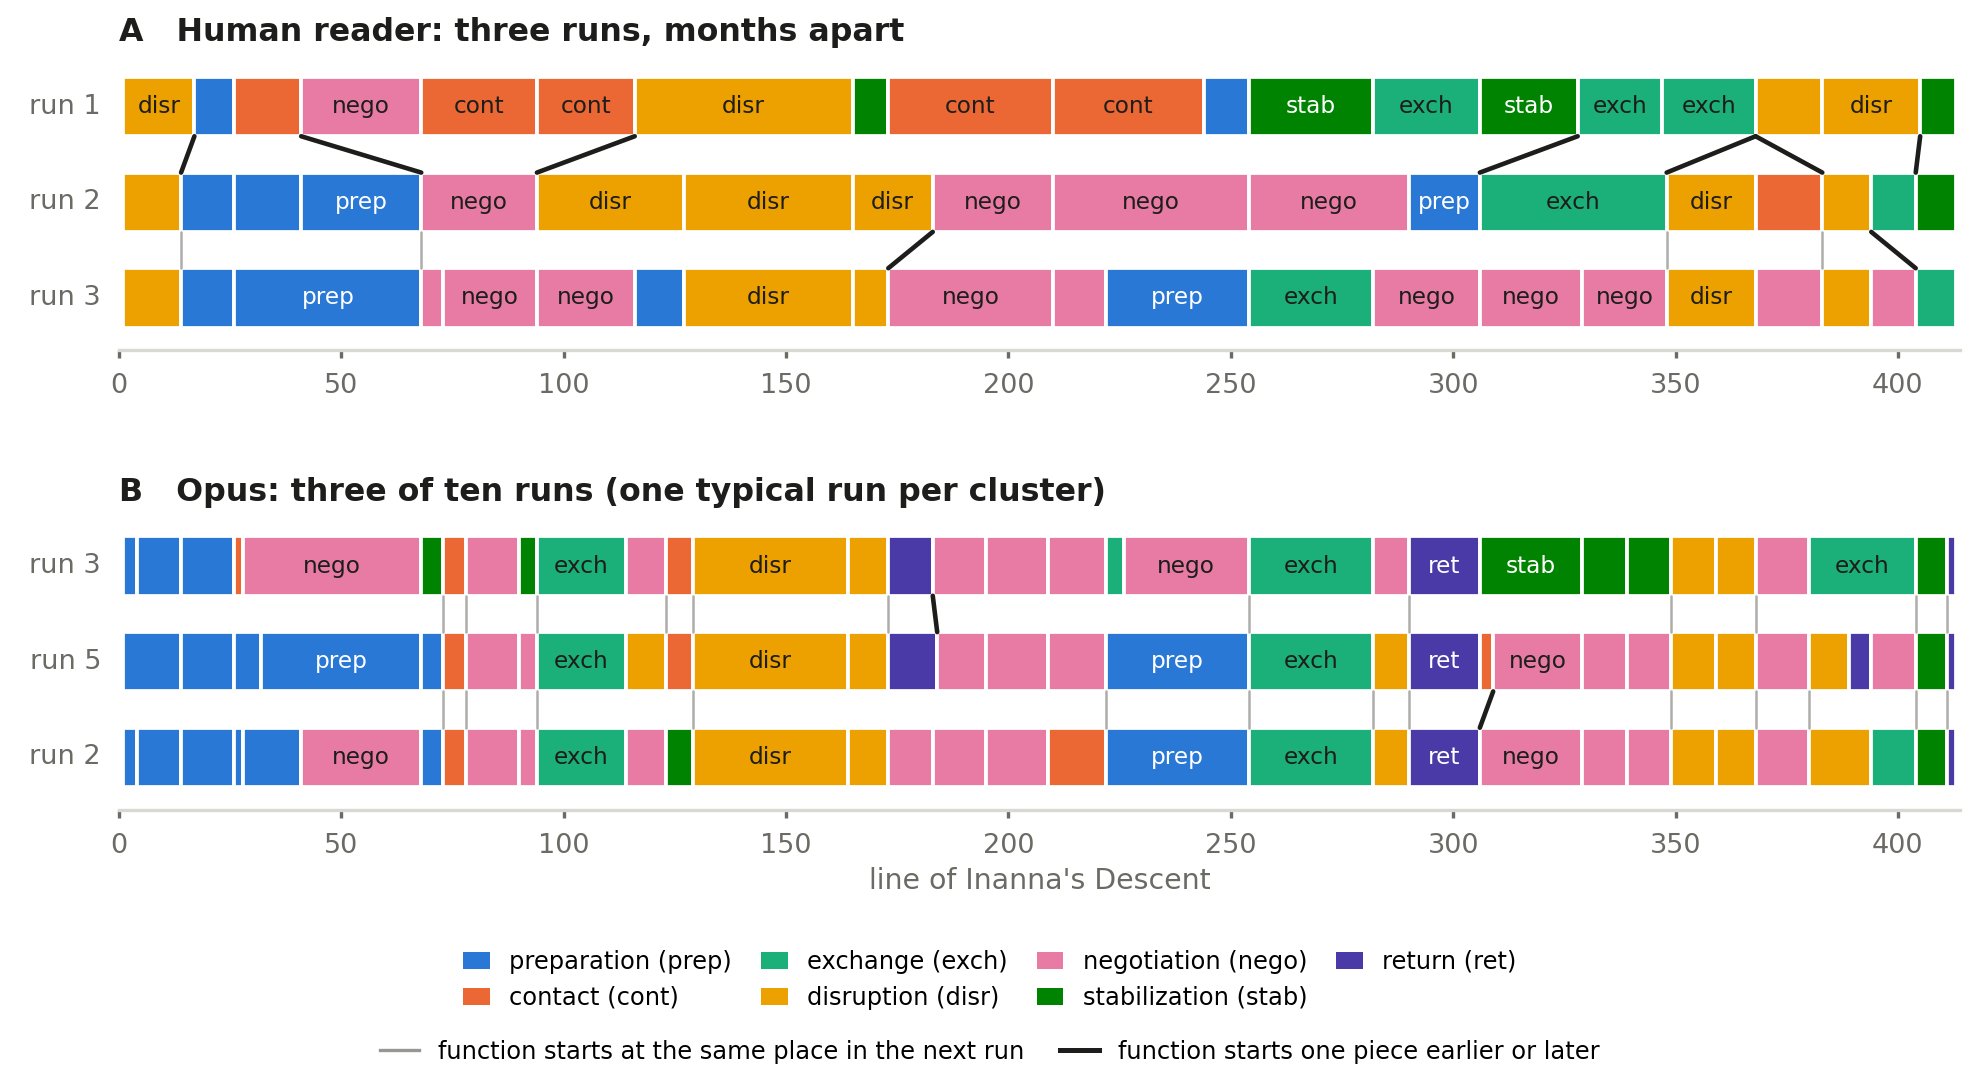
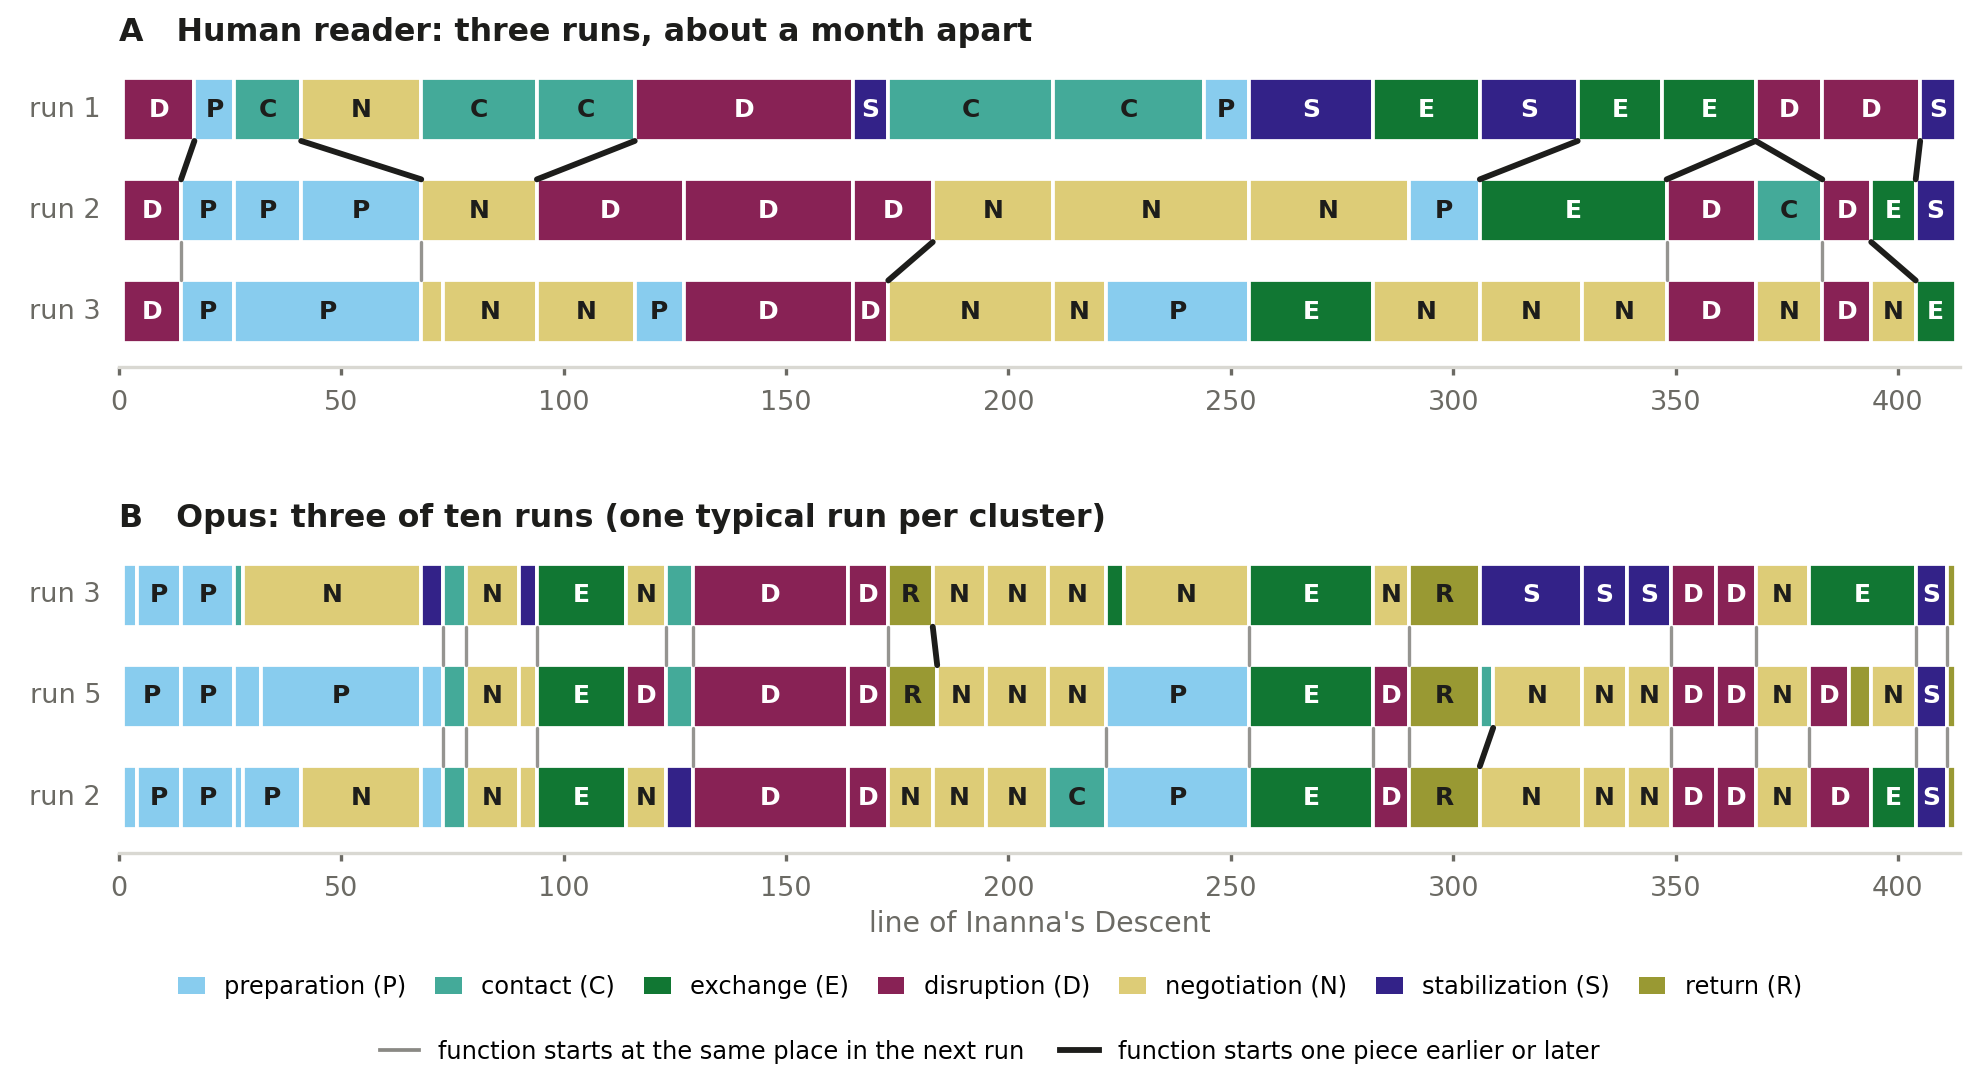
Code and data for the paper

diff --git a/src/fig1_phase.py b/src/fig1_phase.py
@@ -22,8 +22,8 @@ def figure_data(source, choose):
 # panel A: the human's 3 runs; panel B: Opus, one typical run per cluster (select_medoid)
 D = {"human1": figure_data("human1", lambda L: L), "opus": figure_data("opus", lambda L: select_medoid(L, 3))}
 FUN=["preparation","contact","exchange","disruption","negotiation","stabilization","return"]
-COL=dict(zip(FUN,["#2a78d6","#eb6834","#1baf7a","#eda100","#e87ba4","#008300","#4a3aa7"]))
-TXT={f:("#ffffff" if f in("preparation","stabilization","return") else "#1d1d1b") for f in FUN}
+COL=dict(zip(FUN,["#88CCEE","#44AA99","#117733","#882255","#DDCC77","#332288","#999933"]))
+TXT={f:("#ffffff" if f in("exchange","disruption","stabilization") else "#1d1d1b") for f in FUN}   # letter colour on each block
 AB=dict(preparation="prep",contact="cont",exchange="exch",disruption="disr",negotiation="nego",stabilization="stab",**{"return":"ret"})
 INK="#1d1d1b"; MUTED="#6b6a64"; GRID="#d9d8d2"
 plt.rcParams.update({"font.family":"DejaVu Sans","font.size":7.5})
@@ -58,19 +58,19 @@ def links(d,a,b):
 
 fig,axes=plt.subplots(2,1,figsize=(6.6,3.6),dpi=300)
 H=0.62; Y=[2,1,0]
-for ax,(key,title) in zip(axes,[("human1","A   Human reader: three runs, months apart"),
+for ax,(key,title) in zip(axes,[("human1","A   Human reader: three runs, about a month apart"),
                                  ("opus","B   Opus: three of ten runs (one typical run per cluster)")]):
     d=D[key]
     for k in range(3):
         for (a,e,f) in segs(d,k):
             ax.add_patch(Rectangle((a,Y[k]-H/2),e-a,H,facecolor=COL[f],edgecolor="white",linewidth=0.9))
-            if e-a>=16: ax.text((a+e)/2,Y[k],AB[f],ha="center",va="center",fontsize=5.6,color=TXT[f])
+            if e-a>=7: ax.text((a+e)/2,Y[k],f[0].upper(),ha="center",va="center",fontsize=6,fontweight="bold",color=TXT[f])
         ax.text(-4,Y[k],f"run {d['runs'][k]}",ha="right",va="center",fontsize=6.5,color=MUTED)
     for (ka,kb) in [(0,1),(1,2)]:
         for xa,xb,dd in links(d,ka,kb):
             ya,yb=Y[ka]-H/2,Y[kb]+H/2
-            if dd==0: ax.plot([xa,xb],[ya,yb],color=MUTED,lw=0.6,alpha=0.55,solid_capstyle="round")
-            else:     ax.plot([xa,xb],[ya,yb],color=INK,lw=1.1,solid_capstyle="round")
+            if dd==0: ax.plot([xa,xb],[ya,yb],color="#8a8984",lw=0.8,alpha=0.9,solid_capstyle="round")
+            else:     ax.plot([xa,xb],[ya,yb],color=INK,lw=1.4,solid_capstyle="round")
     ax.set_xlim(0,414); ax.set_ylim(-0.55,2.55)
     ax.set_yticks([]); ax.set_title(title,loc="left",fontsize=7.6,color=INK,pad=3,fontweight="semibold")
     for s in ["top","right","left"]: ax.spines[s].set_visible(False)
@@ -78,11 +78,11 @@ for ax,(key,title) in zip(axes,[("human1","A   Human reader: three runs, months 
 axes[1].set_xlabel("line of Inanna's Descent",fontsize=6.8,color=MUTED,labelpad=2)
 from matplotlib.lines import Line2D
 hand=[Rectangle((0,0),1,1,facecolor=COL[f],edgecolor="none") for f in FUN]
-labs=[f"{f} ({AB[f]})" for f in FUN]
-fig.legend(hand,labs,loc="lower center",ncol=4,fontsize=5.8,frameon=False,handlelength=1.1,columnspacing=1.2,bbox_to_anchor=(0.5,0.045))
-h2=[Line2D([0],[0],color=MUTED,lw=0.8,alpha=0.7),Line2D([0],[0],color=INK,lw=1.2)]
+labs=[f"{f} ({f[0].upper()})" for f in FUN]
+fig.legend(hand,labs,loc="lower center",ncol=7,fontsize=5.8,frameon=False,handlelength=1.1,columnspacing=1.2,bbox_to_anchor=(0.5,0.055))
+h2=[Line2D([0],[0],color="#8a8984",lw=0.9),Line2D([0],[0],color=INK,lw=1.4)]
 fig.legend(h2,["function starts at the same place in the next run","function starts one piece earlier or later"],loc="lower center",ncol=2,fontsize=5.8,frameon=False,handlelength=1.6,columnspacing=1.5,bbox_to_anchor=(0.5,-0.005))
-fig.subplots_adjust(left=0.06,right=0.99,top=0.95,bottom=0.25,hspace=0.55)
+fig.subplots_adjust(left=0.06,right=0.99,top=0.95,bottom=0.21,hspace=0.55)
 fig.savefig(OUT, dpi=300)
 for key in ["human1","opus"]:
     d=D[key]; n=[links(d,a,b) for a,b in [(0,1),(1,2)]]
